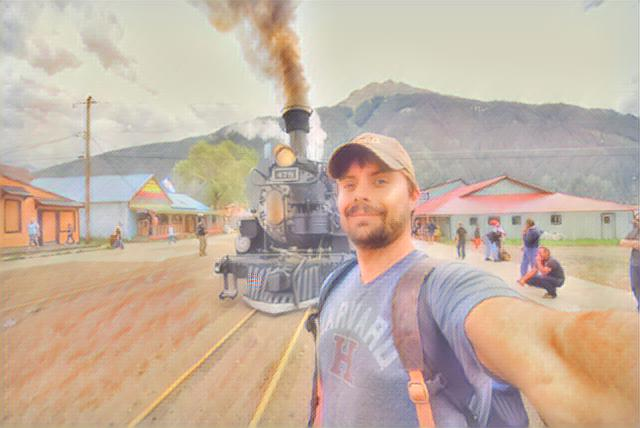
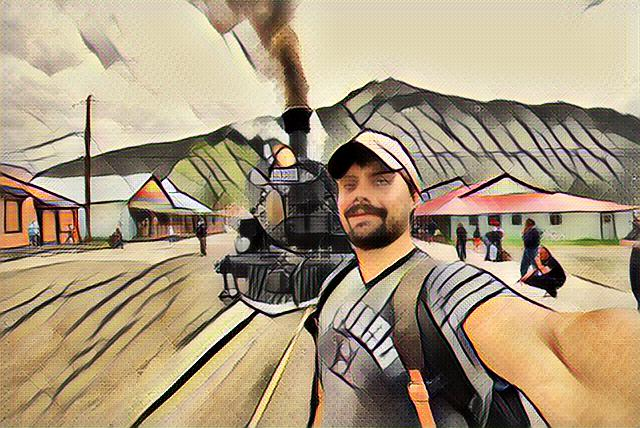
changes

diff --git a/train.py b/train.py
@@ -46,7 +46,7 @@ options = args(options_dict)
 #styles = ['hayao_miyazaki_totoro','transverse_line','robotech','super_saiyan','western_dream',
 #'sketch','woman-with-hat-matisse']
 #weights = [8e0]
-styles = ['transverse_line','daryl_feril','slam_dunk','robotech']
+styles = ['daryl_feril','slam_dunk','robotech']
 weights = [15e0,30e0]
 for s in styles:
     for w in weights:

diff --git a/demo.py b/demo.py
@@ -16,7 +16,7 @@ import os
 ### inference ##
 ################
 
-options = {'checkpoint': 'style_net/training_model/western_dream.ckpt',
+options = {'checkpoint': 'style_net/training_model/transverse_line30.0.ckpt',
          'device': '/cpu:0'
          }
 net = inference.net(options)
